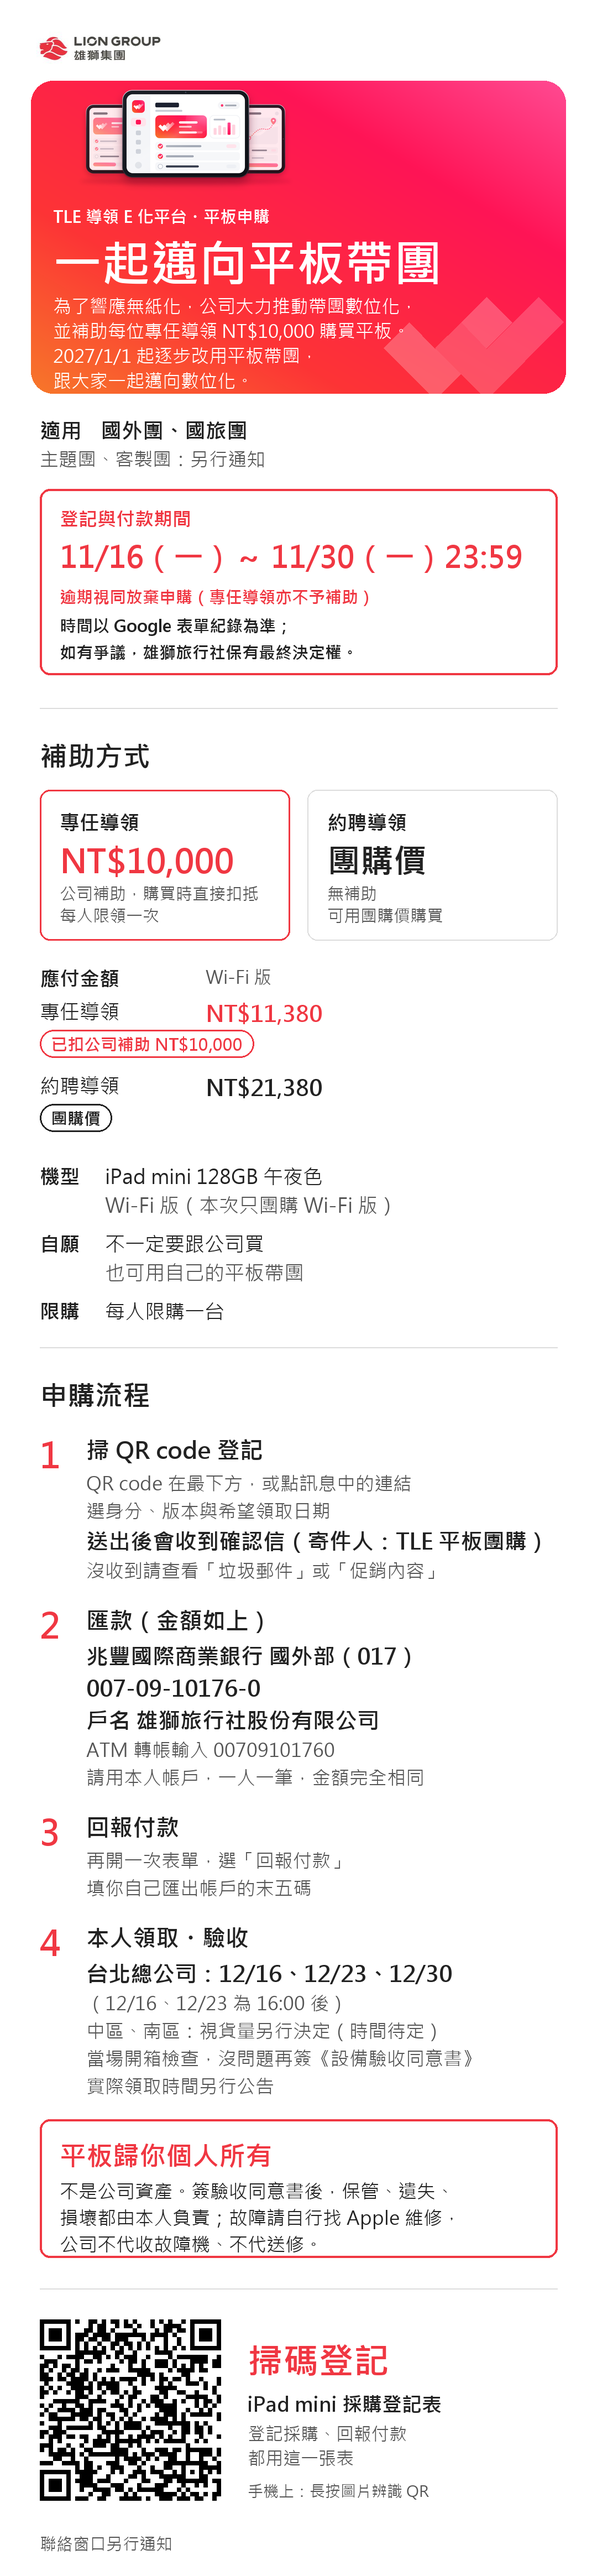
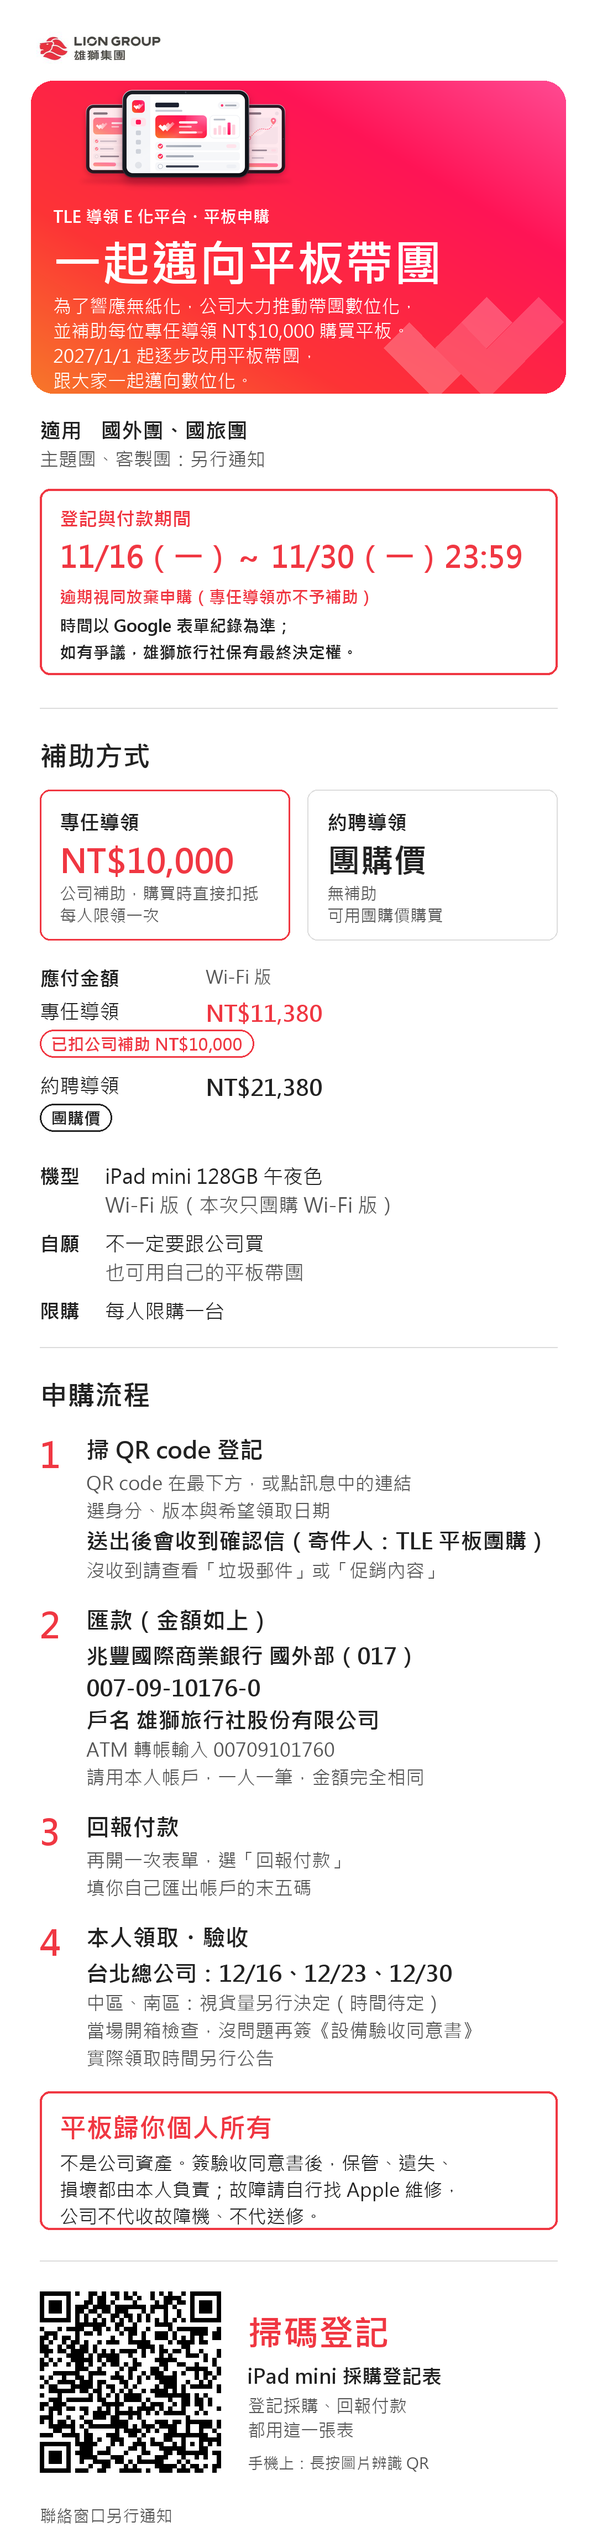
Update notice files 2026-11-13

diff --git a/index.html b/index.html
@@ -226,7 +226,7 @@ https://docs.google.com/forms/d/e/1FAIpQLScBRnBCwPRIjfkRc_nUYg1U1YS1kxVSOd4e8Plc
 https://hoyinzlionwork-cmd.github.io/tablet-notice/
 
 ④ 本人領取・驗收
-台北總公司：12/16（三）16:00 後、12/23（三）16:00 後、12/30（三）
+台北總公司：12/16（三）、12/23（三）、12/30（三）
 中區、南區：視貨量另行決定（時間待定）
 當場開箱驗收，確認無誤後簽署《設備驗收同意書》。
 ・登記時選的希望領取日期僅供統計，實際領取時間另行公告
@@ -244,12 +244,12 @@ https://hoyinzlionwork-cmd.github.io/tablet-notice/
           <div class="meta">PNG・手機直式，可直接轉傳 LINE</div>
         </div>
         <div class="row">
-          <a class="btn" href="leader-flyer.png?v=202611131113" target="_blank" rel="noopener">開啟圖片</a>
-          <a class="btn" href="leader-flyer.png?v=202611131113" download="導領平板申購說明.png">下載圖片</a>
+          <a class="btn" href="leader-flyer.png?v=202611131140" target="_blank" rel="noopener">開啟圖片</a>
+          <a class="btn" href="leader-flyer.png?v=202611131140" download="導領平板申購說明.png">下載圖片</a>
         </div>
       </div>
     </div>
-        <img class="flyer" src="leader-flyer.png?v=202611131113" alt="導領平板申購說明圖預覽" loading="lazy">
+        <img class="flyer" src="leader-flyer.png?v=202611131140" alt="導領平板申購說明圖預覽" loading="lazy">
   </section>
 </div>
 
